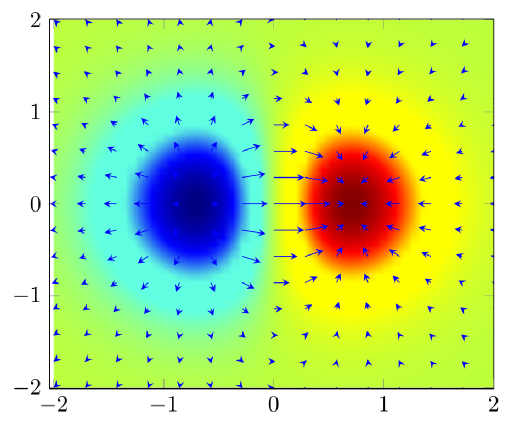
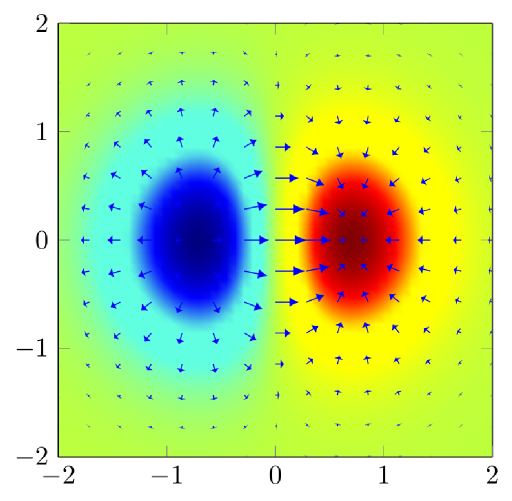
tikz/3d-gradient-colored: Removed small white border

diff --git a/tikz/3d-gradient-colored/3d-gradient-colored.tex b/tikz/3d-gradient-colored/3d-gradient-colored.tex
@@ -3,7 +3,7 @@
 \usepackage[usenames,dvipsnames]{xcolor}
 \usepackage{pgfplots}
 \pgfplotsset{compat=1.11}
-\usepackage{tikz}
+\usetikzlibrary{arrows.meta}
 
 \begin{document}
 \pgfplotsset{
@@ -24,6 +24,10 @@
         domain=-2:2,
         view={0}{90},
         axis background/.style={fill=white},
+        xmin=-2, xmax=2,
+        ymin=-2, ymax=2,
+        axis equal image,
+        point meta rel=per plot
     ]
         \addplot3[surf,
                   samples=50,
@@ -35,12 +39,21 @@
         %           samples=30] 
         %         {x/exp(x^2+y^2)};
         \addplot3[blue,
+        point meta={
+            sqrt(
+                ((1-2*x^2)*exp(-x^2-y^2))^2+
+                (-2*x*y*exp(-x^2-y^2))^2
+            )        
+        },
                   quiver={
                           u={(1-2*x^2)*exp(-x^2-y^2)},
                           v={-2*x*y*exp(-x^2-y^2)},
                           scale arrows=0.3,
+                          every arrow/.append style={%
+                             -{Latex[scale length={max(0.01,\pgfplotspointmetatransformed/1000)}]},
+                             },
                          },
-                  -stealth,samples=15]
+                         samples=15]
                 {x/exp(x^2+y^2)};
     \end{axis}
 \end{tikzpicture}

diff --git a/tikz/3d-gradient-colored/README.md b/tikz/3d-gradient-colored/README.md
@@ -8,3 +8,10 @@ Creation
 * Make sure that `gnuplot` is installed and in your PATH.
 * You can let Wolfram|Alpha calculate you gradients (http://www.wolframalpha.com/input/?i=gradient+of+x%2F%28e%5E%28x%5E2%2By%5E2%29%29)
 * See http://en.wikibooks.org/wiki/LaTeX/Colors for colors
+
+
+Credits
+-------
+Jake helped me to remove the small white border at the left side which was
+caused by the arrows.
+See [Why does PGFplots plot more than the desired range in a 3D plot?](http://tex.stackexchange.com/a/227173/5645).
